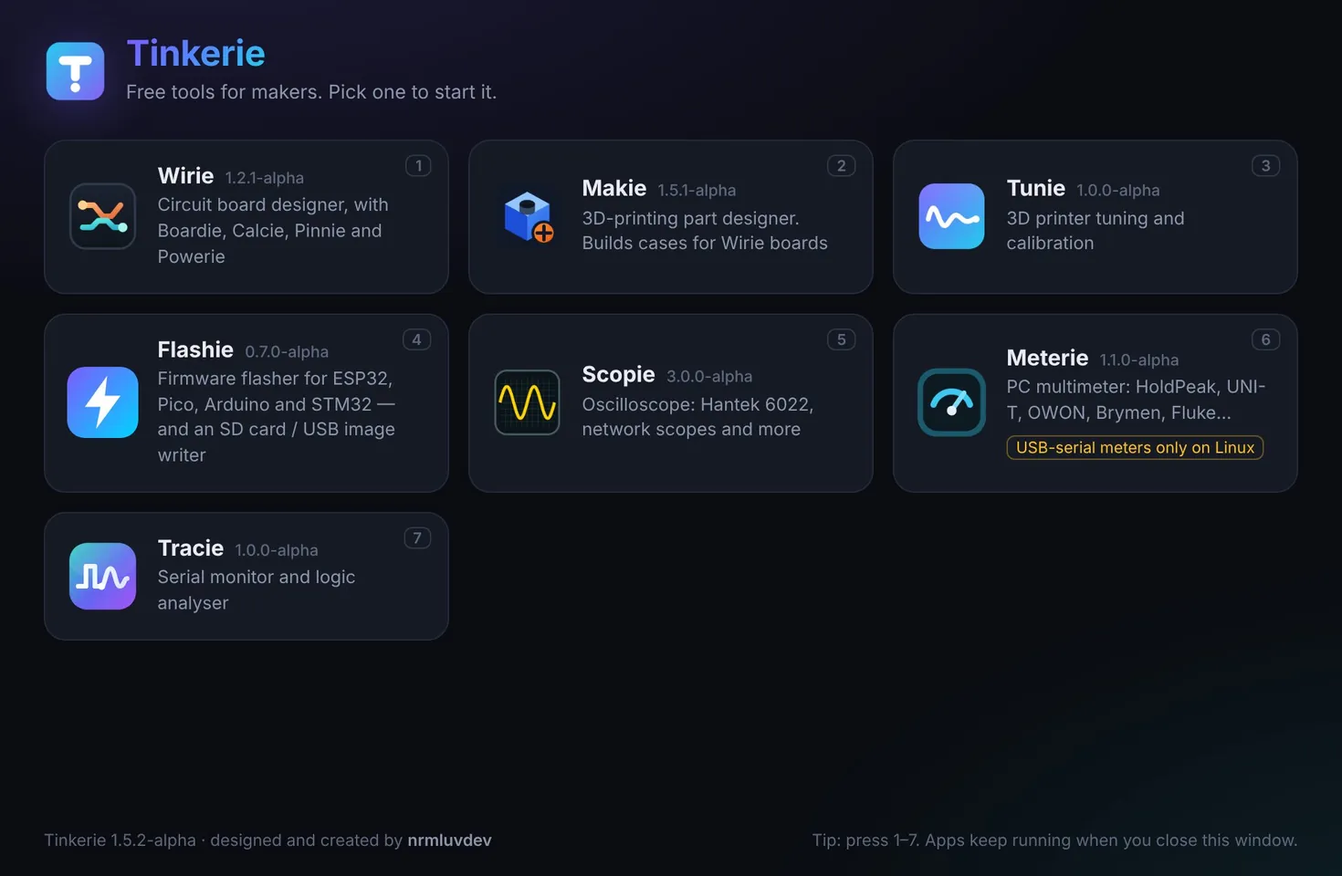
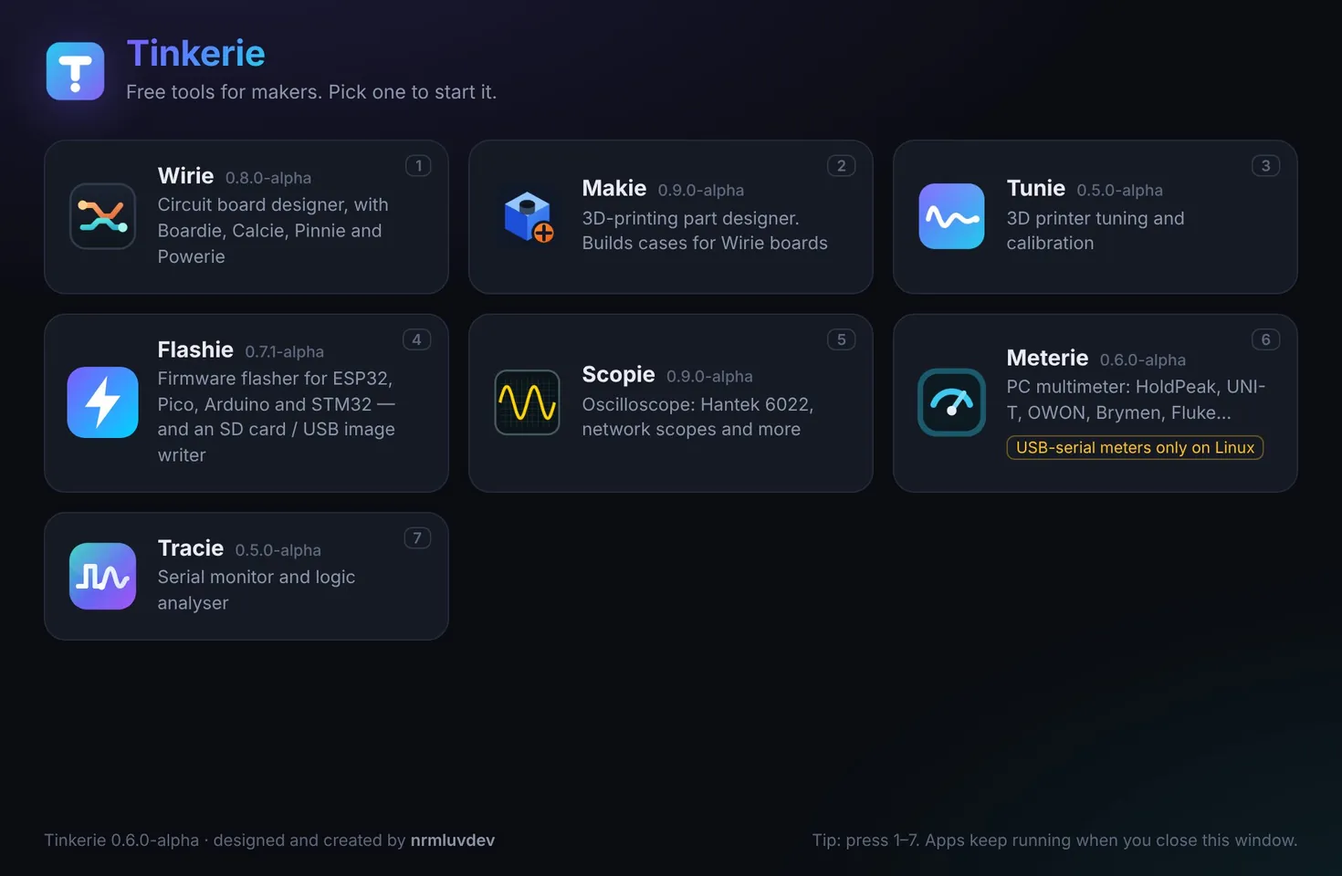
Tinkerie 0.6.0-alpha: pre-1.0 versions, Marauder and Bruce removed
- Tinkerie and every app are numbered below 1.0 while in alpha:
  Tinkerie 0.6.0-alpha (earlier alpha builds were 1.4 to 1.5.2);
  Makie and Scopie 0.9.0, Wirie 0.8.0, Flashie 0.7.1, Meterie 0.6.0,
  Tunie and Tracie 0.5.0 (all -alpha).
- Flashie: ESP32 Marauder and Bruce are no longer in the firmware
  library. The app-only image support they used stays, tested with
  stand-in entries that exist only in the tests.
- README, package READMEs, release notes and the website updated.

Claude-Session: https://claude.ai/code/session_019aqTB3oPkzMVCdEkEkbwqL

diff --git a/docs/index.html b/docs/index.html
@@ -31,7 +31,7 @@
 <div class="ruler" aria-hidden="true"></div>
 <section class="hero"><div class="wrap hero-grid">
   <div>
-    <span class="tape">Free · Alpha · v1.5.2</span>
+    <span class="tape">Free · Alpha · v0.6.0</span>
     <h1>Every tool on your workbench, in one free program.</h1>
     <p class="lead">Design circuit boards and 3D prints, flash microcontrollers, write SD cards, and turn your PC into an oscilloscope, multimeter and serial monitor.</p>
     <div class="cta">
@@ -109,9 +109,9 @@
 </div></section>
 
 <section class="band" id="download"><div class="wrap">
-  <div class="head"><div><span class="label">Download · alpha version 1.5.2-alpha</span><h2>Get Tinkerie</h2><p>The one marked "Your computer" should suit you. Each download has a READ ME FIRST file that explains how to start it.</p></div>
+  <div class="head"><div><span class="label">Download · alpha version 0.6.0-alpha</span><h2>Get Tinkerie</h2><p>The one marked "Your computer" should suit you. Each download has a READ ME FIRST file that explains how to start it.</p></div>
   <a class="btn btn-line" href="https://github.com/normanlove/tinkerie/releases">All files and release notes <svg viewBox="0 0 24 24" fill="none" stroke="currentColor" stroke-width="2" stroke-linecap="round" stroke-linejoin="round" aria-hidden="true"><path d="M5 12h14m-6-6 6 6-6 6"/></svg></a></div>
-  <div class="dl"><a class="row" data-os="windows" data-name="Windows" href="https://github.com/normanlove/tinkerie/releases/download/v1.5.2-alpha/Tinkerie.exe"><span class="os">Windows 10 or 11</span><span><span class="file">Tinkerie.exe</span><br><span class="muted" style="font-size:.9rem">Just run it. Or get the zip below if your network blocks .exe files.</span></span><span class="get"><svg viewBox="0 0 24 24" fill="none" stroke="currentColor" stroke-width="2" stroke-linecap="round" stroke-linejoin="round" aria-hidden="true"><path d="M12 3v12m0 0-5-5m5 5 5-5M4 19h16"/></svg> Download</span></a><a class="row" data-os="windows-zip" data-name="Windows" href="https://github.com/normanlove/tinkerie/releases/download/v1.5.2-alpha/Tinkerie-1.5.2-alpha-windows.zip"><span class="os">Windows (zip, with source)</span><span><span class="file">Tinkerie-1.5.2-alpha-windows.zip</span><br><span class="muted" style="font-size:.9rem">The same program in a zip, with the source code.</span></span><span class="get"><svg viewBox="0 0 24 24" fill="none" stroke="currentColor" stroke-width="2" stroke-linecap="round" stroke-linejoin="round" aria-hidden="true"><path d="M12 3v12m0 0-5-5m5 5 5-5M4 19h16"/></svg> Download</span></a><a class="row" data-os="mac" data-name="Mac (Apple silicon)" href="https://github.com/normanlove/tinkerie/releases/download/v1.5.2-alpha/Tinkerie-1.5.2-alpha-mac-apple-silicon.zip"><span class="os">Mac with M1, M2, M3 or M4</span><span><span class="file">Tinkerie-1.5.2-alpha-mac-apple-silicon.zip</span><br><span class="muted" style="font-size:.9rem">macOS 11 or newer.</span></span><span class="get"><svg viewBox="0 0 24 24" fill="none" stroke="currentColor" stroke-width="2" stroke-linecap="round" stroke-linejoin="round" aria-hidden="true"><path d="M12 3v12m0 0-5-5m5 5 5-5M4 19h16"/></svg> Download</span></a><a class="row" data-os="mac-intel" data-name="Mac (Intel)" href="https://github.com/normanlove/tinkerie/releases/download/v1.5.2-alpha/Tinkerie-1.5.2-alpha-mac-intel.zip"><span class="os">Mac with an Intel processor</span><span><span class="file">Tinkerie-1.5.2-alpha-mac-intel.zip</span><br><span class="muted" style="font-size:.9rem">macOS 11 or newer.</span></span><span class="get"><svg viewBox="0 0 24 24" fill="none" stroke="currentColor" stroke-width="2" stroke-linecap="round" stroke-linejoin="round" aria-hidden="true"><path d="M12 3v12m0 0-5-5m5 5 5-5M4 19h16"/></svg> Download</span></a><a class="row" data-os="linux" data-name="Linux" href="https://github.com/normanlove/tinkerie/releases/download/v1.5.2-alpha/Tinkerie-1.5.2-alpha-linux-x86_64.tar.gz"><span class="os">Linux PC (64-bit)</span><span><span class="file">Tinkerie-1.5.2-alpha-linux-x86_64.tar.gz</span><br><span class="muted" style="font-size:.9rem">Intel or AMD processor.</span></span><span class="get"><svg viewBox="0 0 24 24" fill="none" stroke="currentColor" stroke-width="2" stroke-linecap="round" stroke-linejoin="round" aria-hidden="true"><path d="M12 3v12m0 0-5-5m5 5 5-5M4 19h16"/></svg> Download</span></a><a class="row" data-os="pi" data-name="Raspberry Pi" href="https://github.com/normanlove/tinkerie/releases/download/v1.5.2-alpha/Tinkerie-1.5.2-alpha-pi-64bit.tar.gz"><span class="os">Raspberry Pi OS 64-bit</span><span><span class="file">Tinkerie-1.5.2-alpha-pi-64bit.tar.gz</span><br><span class="muted" style="font-size:.9rem">Pi 3, 4, 5 and newer.</span></span><span class="get"><svg viewBox="0 0 24 24" fill="none" stroke="currentColor" stroke-width="2" stroke-linecap="round" stroke-linejoin="round" aria-hidden="true"><path d="M12 3v12m0 0-5-5m5 5 5-5M4 19h16"/></svg> Download</span></a><a class="row" data-os="pi32" data-name="Raspberry Pi (32-bit)" href="https://github.com/normanlove/tinkerie/releases/download/v1.5.2-alpha/Tinkerie-1.5.2-alpha-pi-32bit.tar.gz"><span class="os">Raspberry Pi OS 32-bit</span><span><span class="file">Tinkerie-1.5.2-alpha-pi-32bit.tar.gz</span><br><span class="muted" style="font-size:.9rem">Pi 2, 3, 4, 5 and Zero 2 W.</span></span><span class="get"><svg viewBox="0 0 24 24" fill="none" stroke="currentColor" stroke-width="2" stroke-linecap="round" stroke-linejoin="round" aria-hidden="true"><path d="M12 3v12m0 0-5-5m5 5 5-5M4 19h16"/></svg> Download</span></a></div>
+  <div class="dl"><a class="row" data-os="windows" data-name="Windows" href="https://github.com/normanlove/tinkerie/releases/download/v0.6.0-alpha/Tinkerie.exe"><span class="os">Windows 10 or 11</span><span><span class="file">Tinkerie.exe</span><br><span class="muted" style="font-size:.9rem">Just run it. Or get the zip below if your network blocks .exe files.</span></span><span class="get"><svg viewBox="0 0 24 24" fill="none" stroke="currentColor" stroke-width="2" stroke-linecap="round" stroke-linejoin="round" aria-hidden="true"><path d="M12 3v12m0 0-5-5m5 5 5-5M4 19h16"/></svg> Download</span></a><a class="row" data-os="windows-zip" data-name="Windows" href="https://github.com/normanlove/tinkerie/releases/download/v0.6.0-alpha/Tinkerie-0.6.0-alpha-windows.zip"><span class="os">Windows (zip, with source)</span><span><span class="file">Tinkerie-0.6.0-alpha-windows.zip</span><br><span class="muted" style="font-size:.9rem">The same program in a zip, with the source code.</span></span><span class="get"><svg viewBox="0 0 24 24" fill="none" stroke="currentColor" stroke-width="2" stroke-linecap="round" stroke-linejoin="round" aria-hidden="true"><path d="M12 3v12m0 0-5-5m5 5 5-5M4 19h16"/></svg> Download</span></a><a class="row" data-os="mac" data-name="Mac (Apple silicon)" href="https://github.com/normanlove/tinkerie/releases/download/v0.6.0-alpha/Tinkerie-0.6.0-alpha-mac-apple-silicon.zip"><span class="os">Mac with M1, M2, M3 or M4</span><span><span class="file">Tinkerie-0.6.0-alpha-mac-apple-silicon.zip</span><br><span class="muted" style="font-size:.9rem">macOS 11 or newer.</span></span><span class="get"><svg viewBox="0 0 24 24" fill="none" stroke="currentColor" stroke-width="2" stroke-linecap="round" stroke-linejoin="round" aria-hidden="true"><path d="M12 3v12m0 0-5-5m5 5 5-5M4 19h16"/></svg> Download</span></a><a class="row" data-os="mac-intel" data-name="Mac (Intel)" href="https://github.com/normanlove/tinkerie/releases/download/v0.6.0-alpha/Tinkerie-0.6.0-alpha-mac-intel.zip"><span class="os">Mac with an Intel processor</span><span><span class="file">Tinkerie-0.6.0-alpha-mac-intel.zip</span><br><span class="muted" style="font-size:.9rem">macOS 11 or newer.</span></span><span class="get"><svg viewBox="0 0 24 24" fill="none" stroke="currentColor" stroke-width="2" stroke-linecap="round" stroke-linejoin="round" aria-hidden="true"><path d="M12 3v12m0 0-5-5m5 5 5-5M4 19h16"/></svg> Download</span></a><a class="row" data-os="linux" data-name="Linux" href="https://github.com/normanlove/tinkerie/releases/download/v0.6.0-alpha/Tinkerie-0.6.0-alpha-linux-x86_64.tar.gz"><span class="os">Linux PC (64-bit)</span><span><span class="file">Tinkerie-0.6.0-alpha-linux-x86_64.tar.gz</span><br><span class="muted" style="font-size:.9rem">Intel or AMD processor.</span></span><span class="get"><svg viewBox="0 0 24 24" fill="none" stroke="currentColor" stroke-width="2" stroke-linecap="round" stroke-linejoin="round" aria-hidden="true"><path d="M12 3v12m0 0-5-5m5 5 5-5M4 19h16"/></svg> Download</span></a><a class="row" data-os="pi" data-name="Raspberry Pi" href="https://github.com/normanlove/tinkerie/releases/download/v0.6.0-alpha/Tinkerie-0.6.0-alpha-pi-64bit.tar.gz"><span class="os">Raspberry Pi OS 64-bit</span><span><span class="file">Tinkerie-0.6.0-alpha-pi-64bit.tar.gz</span><br><span class="muted" style="font-size:.9rem">Pi 3, 4, 5 and newer.</span></span><span class="get"><svg viewBox="0 0 24 24" fill="none" stroke="currentColor" stroke-width="2" stroke-linecap="round" stroke-linejoin="round" aria-hidden="true"><path d="M12 3v12m0 0-5-5m5 5 5-5M4 19h16"/></svg> Download</span></a><a class="row" data-os="pi32" data-name="Raspberry Pi (32-bit)" href="https://github.com/normanlove/tinkerie/releases/download/v0.6.0-alpha/Tinkerie-0.6.0-alpha-pi-32bit.tar.gz"><span class="os">Raspberry Pi OS 32-bit</span><span><span class="file">Tinkerie-0.6.0-alpha-pi-32bit.tar.gz</span><br><span class="muted" style="font-size:.9rem">Pi 2, 3, 4, 5 and Zero 2 W.</span></span><span class="get"><svg viewBox="0 0 24 24" fill="none" stroke="currentColor" stroke-width="2" stroke-linecap="round" stroke-linejoin="round" aria-hidden="true"><path d="M12 3v12m0 0-5-5m5 5 5-5M4 19h16"/></svg> Download</span></a></div>
   <p class="osnote">Windows: see the <a href="code-signing.html">Code signing policy</a>. Free code signing provided by <a href="https://signpath.io">SignPath.io</a>, certificate by <a href="https://signpath.org">SignPath Foundation</a>.</p>
 </div></section>
 
@@ -123,7 +123,7 @@
 <footer><div class="wrap">
   <div class="stack">
     <a class="brand" href="index.html"><img src="img/icons/tinkerie.png" alt="">Tinkerie</a>
-    <p>Free maker tools, designed and created by <b>nrmluvdev</b>. Version 1.5.2-alpha: Tinkerie is in alpha.</p>
+    <p>Free maker tools, designed and created by <b>nrmluvdev</b>. Version 0.6.0-alpha: Tinkerie is in alpha.</p>
     <p>Free software under the GNU GPL, version 3 or later. It comes with no warranty.</p>
   </div>
   <div><h4>The apps</h4><ul><li><a href="wirie.html">Wirie</a></li><li><a href="makie.html">Makie</a></li><li><a href="tunie.html">Tunie</a></li><li><a href="flashie.html">Flashie</a></li><li><a href="scopie.html">Scopie</a></li><li><a href="meterie.html">Meterie</a></li><li><a href="tracie.html">Tracie</a></li></ul></div>

diff --git a/docs/flashie.html b/docs/flashie.html
@@ -33,7 +33,7 @@
   <nav class="crumbs" aria-label="You are here"><a href="index.html">Tinkerie</a><span aria-hidden="true">›</span><a href="index.html#apps">Apps</a><span aria-hidden="true">›</span><span>Flashie</span></nav>
   <div class="grid">
     <div>
-      <div class="app-title"><img src="img/icons/flashie.svg" alt=""><div><h1>Flashie</h1><span class="ver">Version 0.7.0-alpha · in Tinkerie 1.5.2-alpha</span><span class="alpha-pill">Alpha</span></div></div>
+      <div class="app-title"><img src="img/icons/flashie.svg" alt=""><div><h1>Flashie</h1><span class="ver">Version 0.7.1-alpha · in Tinkerie 0.6.0-alpha</span><span class="alpha-pill">Alpha</span></div></div>
       <p class="lead">Put new firmware on your boards, and operating systems on SD cards.</p>
       <div class="plain"><span class="label">In plain words</span><p>Firmware is the program that runs on a little board like an ESP32 or Arduino. Flashie copies it onto the board over USB, checks every byte, and restarts the board. It can also put a whole operating system, like Raspberry Pi OS, onto an SD card, or turn a Windows ISO into a USB installer.</p></div>
       <div class="chips"><span class="chip">ESP32 / ESP8266</span><span class="chip">Raspberry Pi Pico</span><span class="chip">Arduino</span><span class="chip">STM32</span><span class="chip">Block programming</span><span class="chip">SD card and USB writer</span></div>
@@ -52,7 +52,7 @@
 
 <section class="band"><div class="wrap">
   <div class="head"><div><span class="label">Everything it does</span><h2>Features</h2></div></div>
-  <div class="features"><div class="feature"><h3>Flash microcontrollers</h3><p>No esptool, avrdude or Python needed.</p><ul><li>ESP32, S2, S3, C3, C6, H2 and ESP8266, compressed and verified</li><li>Raspberry Pi Pico and Pico 2 (RP2040 / RP2350), even rebooting into BOOTSEL for you</li><li>Arduino Uno, Nano, Pro Mini, Mega, Leonardo, Micro, read back to verify</li><li>STM32 Blue Pill, Black Pill and most STM32s</li><li>20+ Cheap Yellow Display (CYD) models</li><li>Identify chip asks an unknown board what it is</li></ul></div><div class="feature"><h3>Firmware library</h3><p>Popular firmware, downloaded from the official projects.</p><ul><li>MicroPython, CircuitPython, ESPHome, WLED, Tasmota, Meshtastic</li><li>ESP32 Marauder, Bruce, NerdMiner, Grbl</li><li>Filtered to your board, with builds for your exact board first</li><li>Checksums checked, and firmware for the wrong chip refused</li></ul></div><div class="feature"><h3>Create: programs from blocks</h3><p>Drag-and-drop blocks become real code.</p><ul><li>Blocks for pins, LEDs, buttons, NeoPixels, servos, sensors, OLEDs, Wi-Fi and a tiny web server</li><li>Blocks on the left, the code they make on the right</li><li>Pin pickers that warn about pins you shouldn&#x27;t use</li><li>MicroPython on ESP32 and Pico; Arduino C++ on Arduino boards</li><li>Templates: Blink, Button + LED, Wi-Fi web server, temperature logger</li></ul></div><div class="feature"><h3>Write image: SD cards and USB drives</h3><p>Like Raspberry Pi Imager, and a bit like Rufus.</p><ul><li>Raspberry Pi OS and more, from Raspberry Pi&#x27;s official list</li><li>Your own .img or .iso, plain or packed as .zip, .xz, .zst, .gz or .bz2</li><li>Linux ISOs (Ubuntu, Fedora, Mint…) written ready to start</li><li>Windows 10 and 11 ISOs turned into a USB installer for UEFI PCs</li><li>Checks the drive after writing; only removable drives are ever listed</li></ul></div><div class="feature"><h3>OS settings for Raspberry Pi</h3><p>Set it up before it ever starts.</p><ul><li>Hostname, username and password</li><li>Wi-Fi network, password and country</li><li>SSH with a password or public keys</li><li>Time zone and keyboard layout</li><li>Passwords go on the card only as a scrambled hash</li></ul></div></div>
+  <div class="features"><div class="feature"><h3>Flash microcontrollers</h3><p>No esptool, avrdude or Python needed.</p><ul><li>ESP32, S2, S3, C3, C6, H2 and ESP8266, compressed and verified</li><li>Raspberry Pi Pico and Pico 2 (RP2040 / RP2350), even rebooting into BOOTSEL for you</li><li>Arduino Uno, Nano, Pro Mini, Mega, Leonardo, Micro, read back to verify</li><li>STM32 Blue Pill, Black Pill and most STM32s</li><li>20+ Cheap Yellow Display (CYD) models</li><li>Identify chip asks an unknown board what it is</li></ul></div><div class="feature"><h3>Firmware library</h3><p>Popular firmware, downloaded from the official projects.</p><ul><li>MicroPython, CircuitPython, ESPHome, WLED, Tasmota, Meshtastic</li><li>NerdMiner and Grbl</li><li>Filtered to your board, with builds for your exact board first</li><li>Checksums checked, and firmware for the wrong chip refused</li></ul></div><div class="feature"><h3>Create: programs from blocks</h3><p>Drag-and-drop blocks become real code.</p><ul><li>Blocks for pins, LEDs, buttons, NeoPixels, servos, sensors, OLEDs, Wi-Fi and a tiny web server</li><li>Blocks on the left, the code they make on the right</li><li>Pin pickers that warn about pins you shouldn&#x27;t use</li><li>MicroPython on ESP32 and Pico; Arduino C++ on Arduino boards</li><li>Templates: Blink, Button + LED, Wi-Fi web server, temperature logger</li></ul></div><div class="feature"><h3>Write image: SD cards and USB drives</h3><p>Like Raspberry Pi Imager, and a bit like Rufus.</p><ul><li>Raspberry Pi OS and more, from Raspberry Pi&#x27;s official list</li><li>Your own .img or .iso, plain or packed as .zip, .xz, .zst, .gz or .bz2</li><li>Linux ISOs (Ubuntu, Fedora, Mint…) written ready to start</li><li>Windows 10 and 11 ISOs turned into a USB installer for UEFI PCs</li><li>Checks the drive after writing; only removable drives are ever listed</li></ul></div><div class="feature"><h3>OS settings for Raspberry Pi</h3><p>Set it up before it ever starts.</p><ul><li>Hostname, username and password</li><li>Wi-Fi network, password and country</li><li>SSH with a password or public keys</li><li>Time zone and keyboard layout</li><li>Passwords go on the card only as a scrambled hash</li></ul></div></div>
 </div></section>
 
 <section class="band alt"><div class="wrap">
@@ -73,7 +73,7 @@
 <footer><div class="wrap">
   <div class="stack">
     <a class="brand" href="index.html"><img src="img/icons/tinkerie.png" alt="">Tinkerie</a>
-    <p>Free maker tools, designed and created by <b>nrmluvdev</b>. Version 1.5.2-alpha: Tinkerie is in alpha.</p>
+    <p>Free maker tools, designed and created by <b>nrmluvdev</b>. Version 0.6.0-alpha: Tinkerie is in alpha.</p>
     <p>Free software under the GNU GPL, version 3 or later. It comes with no warranty.</p>
   </div>
   <div><h4>The apps</h4><ul><li><a href="wirie.html">Wirie</a></li><li><a href="makie.html">Makie</a></li><li><a href="tunie.html">Tunie</a></li><li><a href="flashie.html">Flashie</a></li><li><a href="scopie.html">Scopie</a></li><li><a href="meterie.html">Meterie</a></li><li><a href="tracie.html">Tracie</a></li></ul></div>

diff --git a/docs/scopie.html b/docs/scopie.html
@@ -33,7 +33,7 @@
   <nav class="crumbs" aria-label="You are here"><a href="index.html">Tinkerie</a><span aria-hidden="true">›</span><a href="index.html#apps">Apps</a><span aria-hidden="true">›</span><span>Scopie</span></nav>
   <div class="grid">
     <div>
-      <div class="app-title"><img src="img/icons/scopie.png" alt=""><div><h1>Scopie</h1><span class="ver">Version 3.0.0-alpha · in Tinkerie 1.5.2-alpha</span><span class="alpha-pill">Alpha</span></div></div>
+      <div class="app-title"><img src="img/icons/scopie.png" alt=""><div><h1>Scopie</h1><span class="ver">Version 0.9.0-alpha · in Tinkerie 0.6.0-alpha</span><span class="alpha-pill">Alpha</span></div></div>
       <p class="lead">Turn your PC into the screen of an oscilloscope.</p>
       <div class="plain"><span class="label">In plain words</span><p>An oscilloscope draws a voltage as a line moving over time, so you can see signals: a PWM output, a serial message, a noisy power supply. Scopie gives your scope a big, clear screen on your PC, and every button explains itself. No scope yet? Demo mode has 13 practice signals.</p></div>
       <div class="chips"><span class="chip">Hantek 6022BE / BL</span><span class="chip">Rigol, Siglent, Keysight, Tektronix</span><span class="chip">OWON</span><span class="chip">PicoScope</span><span class="chip">FFT</span><span class="chip">Demo mode</span></div>
@@ -73,7 +73,7 @@
 <footer><div class="wrap">
   <div class="stack">
     <a class="brand" href="index.html"><img src="img/icons/tinkerie.png" alt="">Tinkerie</a>
-    <p>Free maker tools, designed and created by <b>nrmluvdev</b>. Version 1.5.2-alpha: Tinkerie is in alpha.</p>
+    <p>Free maker tools, designed and created by <b>nrmluvdev</b>. Version 0.6.0-alpha: Tinkerie is in alpha.</p>
     <p>Free software under the GNU GPL, version 3 or later. It comes with no warranty.</p>
   </div>
   <div><h4>The apps</h4><ul><li><a href="wirie.html">Wirie</a></li><li><a href="makie.html">Makie</a></li><li><a href="tunie.html">Tunie</a></li><li><a href="flashie.html">Flashie</a></li><li><a href="scopie.html">Scopie</a></li><li><a href="meterie.html">Meterie</a></li><li><a href="tracie.html">Tracie</a></li></ul></div>

diff --git a/docs/wirie.html b/docs/wirie.html
@@ -33,7 +33,7 @@
   <nav class="crumbs" aria-label="You are here"><a href="index.html">Tinkerie</a><span aria-hidden="true">›</span><a href="index.html#apps">Apps</a><span aria-hidden="true">›</span><span>Wirie</span></nav>
   <div class="grid">
     <div>
-      <div class="app-title"><img src="img/icons/wirie.png" alt=""><div><h1>Wirie</h1><span class="ver">Version 1.2.1-alpha · in Tinkerie 1.5.2-alpha</span><span class="alpha-pill">Alpha</span></div></div>
+      <div class="app-title"><img src="img/icons/wirie.png" alt=""><div><h1>Wirie</h1><span class="ver">Version 0.8.0-alpha · in Tinkerie 0.6.0-alpha</span><span class="alpha-pill">Alpha</span></div></div>
       <p class="lead">Design your own circuit boards, even if you&#x27;ve never made one before.</p>
       <div class="plain"><span class="label">In plain words</span><p>You pick parts like a Raspberry Pi Pico, a sensor and a button, draw which pins connect, and Wirie lays out the copper tracks for you. Then you can send the board off to be made, etch it at home, or build it on cheap stripboard with Wirie&#x27;s step-by-step plan.</p></div>
       <div class="chips"><span class="chip">700+ parts</span><span class="chip">Auto-router</span><span class="chip">Stripboard planner</span><span class="chip">26 interactive pinouts</span><span class="chip">Ready for JLCPCB / PCBWay</span></div>
@@ -70,7 +70,7 @@
 <footer><div class="wrap">
   <div class="stack">
     <a class="brand" href="index.html"><img src="img/icons/tinkerie.png" alt="">Tinkerie</a>
-    <p>Free maker tools, designed and created by <b>nrmluvdev</b>. Version 1.5.2-alpha: Tinkerie is in alpha.</p>
+    <p>Free maker tools, designed and created by <b>nrmluvdev</b>. Version 0.6.0-alpha: Tinkerie is in alpha.</p>
     <p>Free software under the GNU GPL, version 3 or later. It comes with no warranty.</p>
   </div>
   <div><h4>The apps</h4><ul><li><a href="wirie.html">Wirie</a></li><li><a href="makie.html">Makie</a></li><li><a href="tunie.html">Tunie</a></li><li><a href="flashie.html">Flashie</a></li><li><a href="scopie.html">Scopie</a></li><li><a href="meterie.html">Meterie</a></li><li><a href="tracie.html">Tracie</a></li></ul></div>

diff --git a/docs/meterie.html b/docs/meterie.html
@@ -33,7 +33,7 @@
   <nav class="crumbs" aria-label="You are here"><a href="index.html">Tinkerie</a><span aria-hidden="true">›</span><a href="index.html#apps">Apps</a><span aria-hidden="true">›</span><span>Meterie</span></nav>
   <div class="grid">
     <div>
-      <div class="app-title"><img src="img/icons/meterie.png" alt=""><div><h1>Meterie</h1><span class="ver">Version 1.1.0-alpha · in Tinkerie 1.5.2-alpha</span><span class="alpha-pill">Alpha</span></div></div>
+      <div class="app-title"><img src="img/icons/meterie.png" alt=""><div><h1>Meterie</h1><span class="ver">Version 0.6.0-alpha · in Tinkerie 0.6.0-alpha</span><span class="alpha-pill">Alpha</span></div></div>
       <p class="lead">A big, friendly multimeter display, with graphs and logging.</p>
       <div class="plain"><span class="label">In plain words</span><p>Many multimeters can send their readings to a computer. Meterie shows them in big digits you can read across the room, draws a graph over time, and saves everything to a spreadsheet file. Guided wizards test batteries, sort resistors and check LEDs.</p></div>
       <div class="chips"><span class="chip">HoldPeak HP-90EPC</span><span class="chip">UNI-T</span><span class="chip">Brymen</span><span class="chip">Fluke</span><span class="chip">OWON Bluetooth</span><span class="chip">Camera mode</span></div>
@@ -73,7 +73,7 @@
 <footer><div class="wrap">
   <div class="stack">
     <a class="brand" href="index.html"><img src="img/icons/tinkerie.png" alt="">Tinkerie</a>
-    <p>Free maker tools, designed and created by <b>nrmluvdev</b>. Version 1.5.2-alpha: Tinkerie is in alpha.</p>
+    <p>Free maker tools, designed and created by <b>nrmluvdev</b>. Version 0.6.0-alpha: Tinkerie is in alpha.</p>
     <p>Free software under the GNU GPL, version 3 or later. It comes with no warranty.</p>
   </div>
   <div><h4>The apps</h4><ul><li><a href="wirie.html">Wirie</a></li><li><a href="makie.html">Makie</a></li><li><a href="tunie.html">Tunie</a></li><li><a href="flashie.html">Flashie</a></li><li><a href="scopie.html">Scopie</a></li><li><a href="meterie.html">Meterie</a></li><li><a href="tracie.html">Tracie</a></li></ul></div>

diff --git a/docs/tunie.html b/docs/tunie.html
@@ -33,7 +33,7 @@
   <nav class="crumbs" aria-label="You are here"><a href="index.html">Tinkerie</a><span aria-hidden="true">›</span><a href="index.html#apps">Apps</a><span aria-hidden="true">›</span><span>Tunie</span></nav>
   <div class="grid">
     <div>
-      <div class="app-title"><img src="img/icons/tunie.png" alt=""><div><h1>Tunie</h1><span class="ver">Version 1.0.0-alpha · in Tinkerie 1.5.2-alpha</span><span class="alpha-pill">Alpha</span></div></div>
+      <div class="app-title"><img src="img/icons/tunie.png" alt=""><div><h1>Tunie</h1><span class="ver">Version 0.5.0-alpha · in Tinkerie 0.6.0-alpha</span><span class="alpha-pill">Alpha</span></div></div>
       <p class="lead">Calibrate your 3D printer one simple test at a time.</p>
       <div class="plain"><span class="label">In plain words</span><p>Most print problems (stringing, gaps, blobs, parts that don&#x27;t fit) come from a few settings. Tunie makes a small test print for each one, tells you what to look at, and turns your measurement into the exact setting to change. No slicer needed.</p></div>
       <div class="chips"><span class="chip">14 calibration tests</span><span class="chip">40 printer presets</span><span class="chip">Marlin, Klipper, Prusa, Bambu</span><span class="chip">Bed mesh viewer</span><span class="chip">Belt tension by sound</span></div>
@@ -70,7 +70,7 @@
 <footer><div class="wrap">
   <div class="stack">
     <a class="brand" href="index.html"><img src="img/icons/tinkerie.png" alt="">Tinkerie</a>
-    <p>Free maker tools, designed and created by <b>nrmluvdev</b>. Version 1.5.2-alpha: Tinkerie is in alpha.</p>
+    <p>Free maker tools, designed and created by <b>nrmluvdev</b>. Version 0.6.0-alpha: Tinkerie is in alpha.</p>
     <p>Free software under the GNU GPL, version 3 or later. It comes with no warranty.</p>
   </div>
   <div><h4>The apps</h4><ul><li><a href="wirie.html">Wirie</a></li><li><a href="makie.html">Makie</a></li><li><a href="tunie.html">Tunie</a></li><li><a href="flashie.html">Flashie</a></li><li><a href="scopie.html">Scopie</a></li><li><a href="meterie.html">Meterie</a></li><li><a href="tracie.html">Tracie</a></li></ul></div>

diff --git a/docs/tracie.html b/docs/tracie.html
@@ -33,7 +33,7 @@
   <nav class="crumbs" aria-label="You are here"><a href="index.html">Tinkerie</a><span aria-hidden="true">›</span><a href="index.html#apps">Apps</a><span aria-hidden="true">›</span><span>Tracie</span></nav>
   <div class="grid">
     <div>
-      <div class="app-title"><img src="img/icons/tracie.svg" alt=""><div><h1>Tracie</h1><span class="ver">Version 1.0.0-alpha · in Tinkerie 1.5.2-alpha</span><span class="alpha-pill">Alpha</span></div></div>
+      <div class="app-title"><img src="img/icons/tracie.svg" alt=""><div><h1>Tracie</h1><span class="ver">Version 0.5.0-alpha · in Tinkerie 0.6.0-alpha</span><span class="alpha-pill">Alpha</span></div></div>
       <p class="lead">See what your board is saying, and the signals on its wires.</p>
       <div class="plain"><span class="label">In plain words</span><p>When your Arduino or ESP32 prints messages, Tracie shows them, and turns any numbers into live graphs automatically. With a cheap 8-channel logic analyser it also records the digital signals on your wires and decodes them into readable bytes.</p></div>
       <div class="chips"><span class="chip">Serial monitor</span><span class="chip">Live plotter</span><span class="chip">UART, I²C, SPI decoders</span><span class="chip">8-channel logic analyser</span><span class="chip">Shared timeline</span></div>
@@ -70,7 +70,7 @@
 <footer><div class="wrap">
   <div class="stack">
     <a class="brand" href="index.html"><img src="img/icons/tinkerie.png" alt="">Tinkerie</a>
-    <p>Free maker tools, designed and created by <b>nrmluvdev</b>. Version 1.5.2-alpha: Tinkerie is in alpha.</p>
+    <p>Free maker tools, designed and created by <b>nrmluvdev</b>. Version 0.6.0-alpha: Tinkerie is in alpha.</p>
     <p>Free software under the GNU GPL, version 3 or later. It comes with no warranty.</p>
   </div>
   <div><h4>The apps</h4><ul><li><a href="wirie.html">Wirie</a></li><li><a href="makie.html">Makie</a></li><li><a href="tunie.html">Tunie</a></li><li><a href="flashie.html">Flashie</a></li><li><a href="scopie.html">Scopie</a></li><li><a href="meterie.html">Meterie</a></li><li><a href="tracie.html">Tracie</a></li></ul></div>

diff --git a/docs/makie.html b/docs/makie.html
@@ -33,7 +33,7 @@
   <nav class="crumbs" aria-label="You are here"><a href="index.html">Tinkerie</a><span aria-hidden="true">›</span><a href="index.html#apps">Apps</a><span aria-hidden="true">›</span><span>Makie</span></nav>
   <div class="grid">
     <div>
-      <div class="app-title"><img src="img/icons/makie.png" alt=""><div><h1>Makie</h1><span class="ver">Version 1.5.1-alpha · in Tinkerie 1.5.2-alpha</span><span class="alpha-pill">Alpha</span></div></div>
+      <div class="app-title"><img src="img/icons/makie.png" alt=""><div><h1>Makie</h1><span class="ver">Version 0.9.0-alpha · in Tinkerie 0.6.0-alpha</span><span class="alpha-pill">Alpha</span></div></div>
       <p class="lead">Design parts for your 3D printer by stacking simple shapes.</p>
       <div class="plain"><span class="label">In plain words</span><p>Drop shapes onto the build plate, turn some of them into holes, and group them: the holes are cut out. That&#x27;s all it takes to make a bracket, a box or a replacement knob. When it looks right, export an STL or 3MF for your slicer.</p></div>
       <div class="chips"><span class="chip">Threads that fit</span><span class="chip">Gears and mechanisms</span><span class="chip">Cases for 70 boards</span><span class="chip">Motion and collision check</span><span class="chip">Multi-colour 3MF</span></div>
@@ -70,7 +70,7 @@
 <footer><div class="wrap">
   <div class="stack">
     <a class="brand" href="index.html"><img src="img/icons/tinkerie.png" alt="">Tinkerie</a>
-    <p>Free maker tools, designed and created by <b>nrmluvdev</b>. Version 1.5.2-alpha: Tinkerie is in alpha.</p>
+    <p>Free maker tools, designed and created by <b>nrmluvdev</b>. Version 0.6.0-alpha: Tinkerie is in alpha.</p>
     <p>Free software under the GNU GPL, version 3 or later. It comes with no warranty.</p>
   </div>
   <div><h4>The apps</h4><ul><li><a href="wirie.html">Wirie</a></li><li><a href="makie.html">Makie</a></li><li><a href="tunie.html">Tunie</a></li><li><a href="flashie.html">Flashie</a></li><li><a href="scopie.html">Scopie</a></li><li><a href="meterie.html">Meterie</a></li><li><a href="tracie.html">Tracie</a></li></ul></div>

diff --git a/docs/start.html b/docs/start.html
@@ -70,7 +70,7 @@ cd Tinkerie-*-pi-64bit</pre></p></div></li><li><div><h3>Start it and add it to t
 <footer><div class="wrap">
   <div class="stack">
     <a class="brand" href="index.html"><img src="img/icons/tinkerie.png" alt="">Tinkerie</a>
-    <p>Free maker tools, designed and created by <b>nrmluvdev</b>. Version 1.5.2-alpha: Tinkerie is in alpha.</p>
+    <p>Free maker tools, designed and created by <b>nrmluvdev</b>. Version 0.6.0-alpha: Tinkerie is in alpha.</p>
     <p>Free software under the GNU GPL, version 3 or later. It comes with no warranty.</p>
   </div>
   <div><h4>The apps</h4><ul><li><a href="wirie.html">Wirie</a></li><li><a href="makie.html">Makie</a></li><li><a href="tunie.html">Tunie</a></li><li><a href="flashie.html">Flashie</a></li><li><a href="scopie.html">Scopie</a></li><li><a href="meterie.html">Meterie</a></li><li><a href="tracie.html">Tracie</a></li></ul></div>

diff --git a/apps/flashie/ui.html b/apps/flashie/ui.html
@@ -1180,7 +1180,7 @@ window.addEventListener('beforeunload', e => { if(S.flashing){ e.preventDefault(
 
 /* ---------- firmware library ---------- */
 S.mode = 'lib'; S.lib = null; S.libItems = []; S.libSel = null; S.libCat = 'All'; S.resCache = {};
-const CAT_COL = {'Programming':'#7c5cff','Smart home':'#00b4d8','Lighting':'#ff9f1c','Radio':'#2ee59d','Wi-Fi & Bluetooth tools':'#ff5c7a','Fun':'#f7c948','CNC & 3D printing':'#8a93a6'};
+const CAT_COL = {'Programming':'#7c5cff','Smart home':'#00b4d8','Lighting':'#ff9f1c','Radio':'#2ee59d','Fun':'#f7c948','CNC & 3D printing':'#8a93a6'};
 const libBoardId = () => { const b = currentBoard(); return b ? b.id : ''; };
 const libChip = () => { const b = currentBoard(); if(S.chip && S.chip.family==='esp') return S.chip.chip; return (b && b.chip) || expectedChip() || ''; };
 const libKey = () => libBoardId() + '|' + libChip();

diff --git a/docs/code-signing.html b/docs/code-signing.html
@@ -62,7 +62,7 @@
 <footer><div class="wrap">
   <div class="stack">
     <a class="brand" href="index.html"><img src="img/icons/tinkerie.png" alt="">Tinkerie</a>
-    <p>Free maker tools, designed and created by <b>nrmluvdev</b>. Version 1.5.2-alpha: Tinkerie is in alpha.</p>
+    <p>Free maker tools, designed and created by <b>nrmluvdev</b>. Version 0.6.0-alpha: Tinkerie is in alpha.</p>
     <p>Free software under the GNU GPL, version 3 or later. It comes with no warranty.</p>
   </div>
   <div><h4>The apps</h4><ul><li><a href="wirie.html">Wirie</a></li><li><a href="makie.html">Makie</a></li><li><a href="tunie.html">Tunie</a></li><li><a href="flashie.html">Flashie</a></li><li><a href="scopie.html">Scopie</a></li><li><a href="meterie.html">Meterie</a></li><li><a href="tracie.html">Tracie</a></li></ul></div>

diff --git a/apps/wirie/web/core.js b/apps/wirie/web/core.js
@@ -1,7 +1,7 @@
 // Wirie core: project model, geometry, nets & connectivity — by nrmluvdev
 "use strict";
 
-const APP = { name: "Wirie", version: "1.2.1-alpha", author: "nrmluvdev" };
+const APP = { name: "Wirie", version: "0.8.0-alpha", author: "nrmluvdev" };
 
 function newProject() {
   return {
